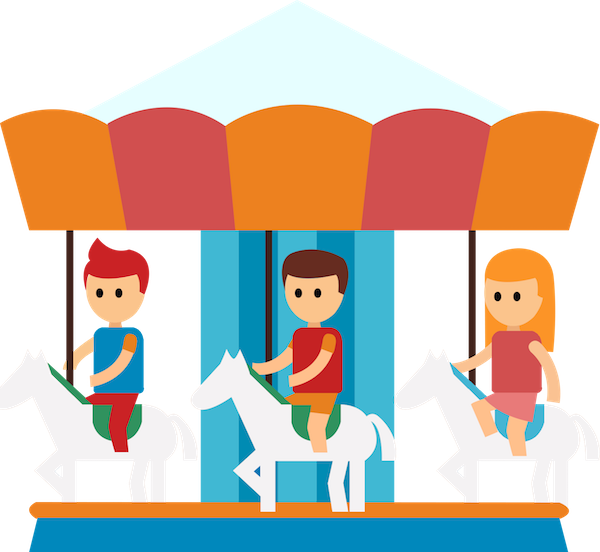
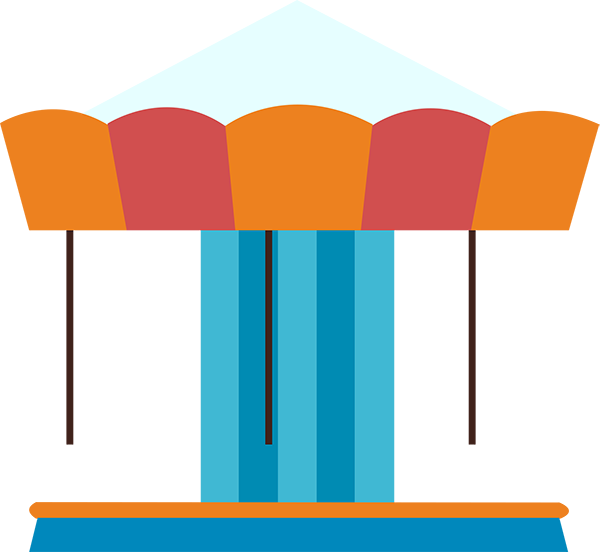
add portfolio

Changed region(s): [[0.33, 0.4004, 0.66, 0.9547], [0.75, 0.4312, 0.96, 0.8315], [0.06, 0.4312, 0.27, 0.8315]]

diff --git a/css/main.css b/css/main.css
@@ -37,7 +37,7 @@ a{
 }
 /* scroll */
 ::-webkit-scrollbar-thumb {
-    background-color: #cae594;
+    background-color: #609604;
     border-bottom-left-radius: 10px;
     border-bottom-right-radius: 10px;
     border-top-left-radius: 10px;
@@ -235,6 +235,22 @@ a{
 	position: absolute;
 	width: 300px;
 }
+.children-horse{
+	position: absolute;
+	width: 100px;
+}
+.children-horse-01{
+	-webkit-animation: children_horse_01 5s infinite; /* Chrome, Safari, Opera */
+    animation: children_horse_01 5s infinite;
+}
+.children-horse-02{
+	-webkit-animation: children_horse_02 6s infinite; /* Chrome, Safari, Opera */
+    animation: children_horse_02 6s infinite;
+}
+.children-horse-03{
+	-webkit-animation: children_horse_03 5s infinite; /* Chrome, Safari, Opera */
+    animation: children_horse_03 5s infinite;
+}
 .trash{
 	position: absolute;
 	width: 50px;
@@ -345,7 +361,7 @@ a{
 	text-align: center;
 	padding-top: 7px;
 	opacity: 0;
-	transition: 1s;
+	transition: 0.5s;
 	animation: location 1s infinite;
 }
 .info{
@@ -470,7 +486,7 @@ a{
 	display: none;
 }
 .portfolio-bg{
-	background-color: #fff;
+	background-color: #adcf6b;
 	opacity: 0.8;
 	position: absolute;
 	width: 100%;
@@ -478,7 +494,7 @@ a{
 }
 .portfolio-content{
 	position: relative;
-	width: 900px;
+	width: 950px;
 	margin: 20px auto;
 	transform: translateY(-100%);
 	transition: 1s;
@@ -488,7 +504,7 @@ a{
 .portfolio-content .title{
 	background-image: url('../img/img-profile/bg-demo.png');
 	background-size: 100% 100%;
-	width: 900px;
+	width: 950px;
 	height: 160px;
 	color: #fff;
 	font-size: 35px;
@@ -498,9 +514,9 @@ a{
 	z-index: 1;
 }
 .portfolio{
-	width: 850px;
+	width: 900px;
 	background-color: #fff;
-	padding: 50px 30px 20px;
+	padding: 70px 10px 70px;
 	margin: auto;
 	position: relative;
 	top: -35px;
@@ -509,12 +525,53 @@ a{
 .portfolio h5{
 	background-image: url('../img/img-profile/skill-box-demo.png');
 	background-size: 100% 100%;
-	color: #fff;
+	color: #000;
 	display: inline-block;
-	text-transform: uppercase;
-	padding: 10px 50px 14px;
-	font-size: 16px;
+	padding: 15px 70px 21px;
+	font-size: 17px;
 	font-weight: bold;
+}
+.group-portfolio{
+	margin-top: 50px;
+	position: relative;
+}
+.btn-left, .btn-right{
+	position: absolute;
+	top: 50%;
+	transform: translateY(-50%);
+}
+.btn-left img, .btn-right img{
+	width: 30px;
+}
+.btn-left{
+	float: left;
+	left: 0;
+}
+.btn-right{
+	float: right;
+	right: 0;
+}
+.demo-portfolio{
+	width: 820px;
+	margin: auto;
+	overflow: hidden;
+}
+.demo-flex{
+	display: flex;
+	transition: 0.5s;
+}
+.demo-element{
+	float: left;
+}
+.demo-element a img{
+	width: 265px;
+	height: 160px;
+	transform: scale(0.8);
+	transition: 0.8s;
+}
+.demo-portfolio .active a img{
+	transform: scale(1);
+	transition: 0.8s;
 }
 
 

diff --git a/test.html b/test.html
@@ -202,7 +202,12 @@
 					<img src="img/img-profile/tree-tall.png" alt="" class="tree tree-tall" style="right: 20px; top: -80px">
 					<img src="img/img-profile/tree-small.png" alt="" class="tree tree-small" style="right: 60px; top: -30px">
 					<img src="img/img-profile/tree-small.png" alt="" class="tree tree-small" style="left: 60px; top: 145px">
-					<img src="img/img-profile/horse.png" alt="" class="horse" style="left: 120px; top: 0px">
+					<div class="group-horse">
+						<img src="img/img-profile/horse.png" alt="" class="horse" style="left: 120px; top: 0px">
+						<img src="img/img-profile/children-horse-01.png" alt="" class="children-horse children-horse-01" style="left: 118px; top: 118px">
+						<img src="img/img-profile/children-horse-02.png" alt="" class="children-horse children-horse-02" style="left: 217px; top: 110px">
+						<img src="img/img-profile/children-horse-03.png" alt="" class="children-horse children-horse-03" style="left: 319px; top: 110px">
+					</div>
 					<img src="img/img-profile/people-store.png" alt="" class="people" style="left: -50px; top: 590px">
 					<!-- Flower	 -->
 					<div class="flower-section" style="right: 120px; top: 330px">
@@ -335,7 +340,32 @@
 		<div class="portfolio-content">
 			<h4 class='title'>Portfolio</h4>
 			<div class="portfolio">
-				<h5>Website</h5>
+				<h5>
+					<span>Website</span>
+				</h5>
+				<div class="container-fluid group-portfolio">
+					<button class="btn-left"><img src="img/img-profile/left-arrow.png" alt=""></button>
+					<button class="btn-right"><img src="img/img-profile/right-arrow.png" alt=""></button>
+					<div class="container-fluid demo-portfolio">
+						<div class="demo-flex">
+							<div class="demo-element">
+								<a href="html/fashion.html" target="blank"><img src="img/img-profile/web-fashion.png" alt=""></a>
+							</div>
+							<div class="demo-element active">
+								<a href="html/restaurant.html" target="blank"><img src="img/img-profile/web-restaurant.png" alt=""></a>
+							</div>
+							<div class="demo-element">
+								<a href="#"><img src="img/img-profile/web-bed.png" alt=""></a>
+							</div>
+							<div class="demo-element">
+								<a href="#"><img src="img/img-profile/web-cartoon.png" alt=""></a>
+							</div>
+							<div class="demo-element">
+								<a href="#"><img src="img/img-profile/web-wedding.png" alt=""></a>
+							</div>
+						</div>
+					</div>
+				</div>
 			</div>
 		</div>
 	</div>

diff --git a/css/animation.css b/css/animation.css
@@ -47,6 +47,47 @@
     0%   {transform: translateY(-100%);}
     100% {transform: translateY(0);}
 }
+
+/* Chrome, Safari, Opera */
+@-webkit-keyframes children_horse_01 {
+    0%   {transform: translateY(0);}
+    50%   {transform: translateY(-10px);}
+    100% {transform: translateY(0);}
+}
+
+/* Standard syntax */
+@keyframes children_horse_01 {
+    0%   {transform: translateY(0);}
+    50%   {transform: translateY(-10px);}
+    100% {transform: translateY(0);}
+}
+
+/* Chrome, Safari, Opera */
+@-webkit-keyframes children_horse_02 {
+    0%   {transform: translateY(0);}
+    50%   {transform: translateY(20px);}
+    100% {transform: translateY(0);}
+}
+
+/* Standard syntax */
+@keyframes children_horse_02 {
+    0%   {transform: translateY(0);}
+    50%   {transform: translateY(20px);}
+    100% {transform: translateY(0);}
+}
+/* Chrome, Safari, Opera */
+@-webkit-keyframes children_horse_03 {
+    0%   {transform: translateY(0);}
+    50%   {transform: translateY(10px);}
+    100% {transform: translateY(0);}
+}
+
+/* Standard syntax */
+@keyframes children_horse_03 {
+    0%   {transform: translateY(0);}
+    50%   {transform: translateY(10px);}
+    100% {transform: translateY(0);}
+}
 /* Chrome, Safari, Opera */
 @-webkit-keyframes air_balloon {
     0%   {transform: translateX(-2); top: 600px;}

diff --git a/js/main.js b/js/main.js
@@ -29,6 +29,38 @@ $(document).ready(function(){
 		$('.portfolio-section').css('display','none');
 	});
 
+	//Animation Demo
+	var count = 2;
+	var position = 0;
+	var with_demo = $('.demo-flex .demo-element').size() * 265;
+	$('.btn-left').click(function(event) {
+		$('.demo-element:nth-child(' + count + ')').removeClass('active');
+		position = position - 265;
+		if(position >= 0){
+			$('.demo-flex').css({'transform':'translateX(-' + position + 'px'});
+			count = count - 1;
+			$('.demo-element:nth-child(' + count + ')').addClass('active');
+		}
+		else{
+			position = 0;
+			count = 2;
+			$('.demo-element:nth-child(2)').addClass('active');
+		}
+	});
+	$('.btn-right').click(function(event) {
+		$('.demo-element:nth-child(' + count + ')').removeClass('active');
+		position = position + 265;
+		if(position < with_demo){
+			$('.demo-flex').css({'transform':'translateX(-' + position + 'px'});
+			count = count + 1;
+			$('.demo-element:nth-child(' + count + ')').addClass('active');
+		}
+		else{
+			position = with_demo;
+			count = count + 1;
+		}
+	});
+
 	//Animation Scroll
 	$(window).scroll(function(){
 		if($(this).scrollTop() > 150){
